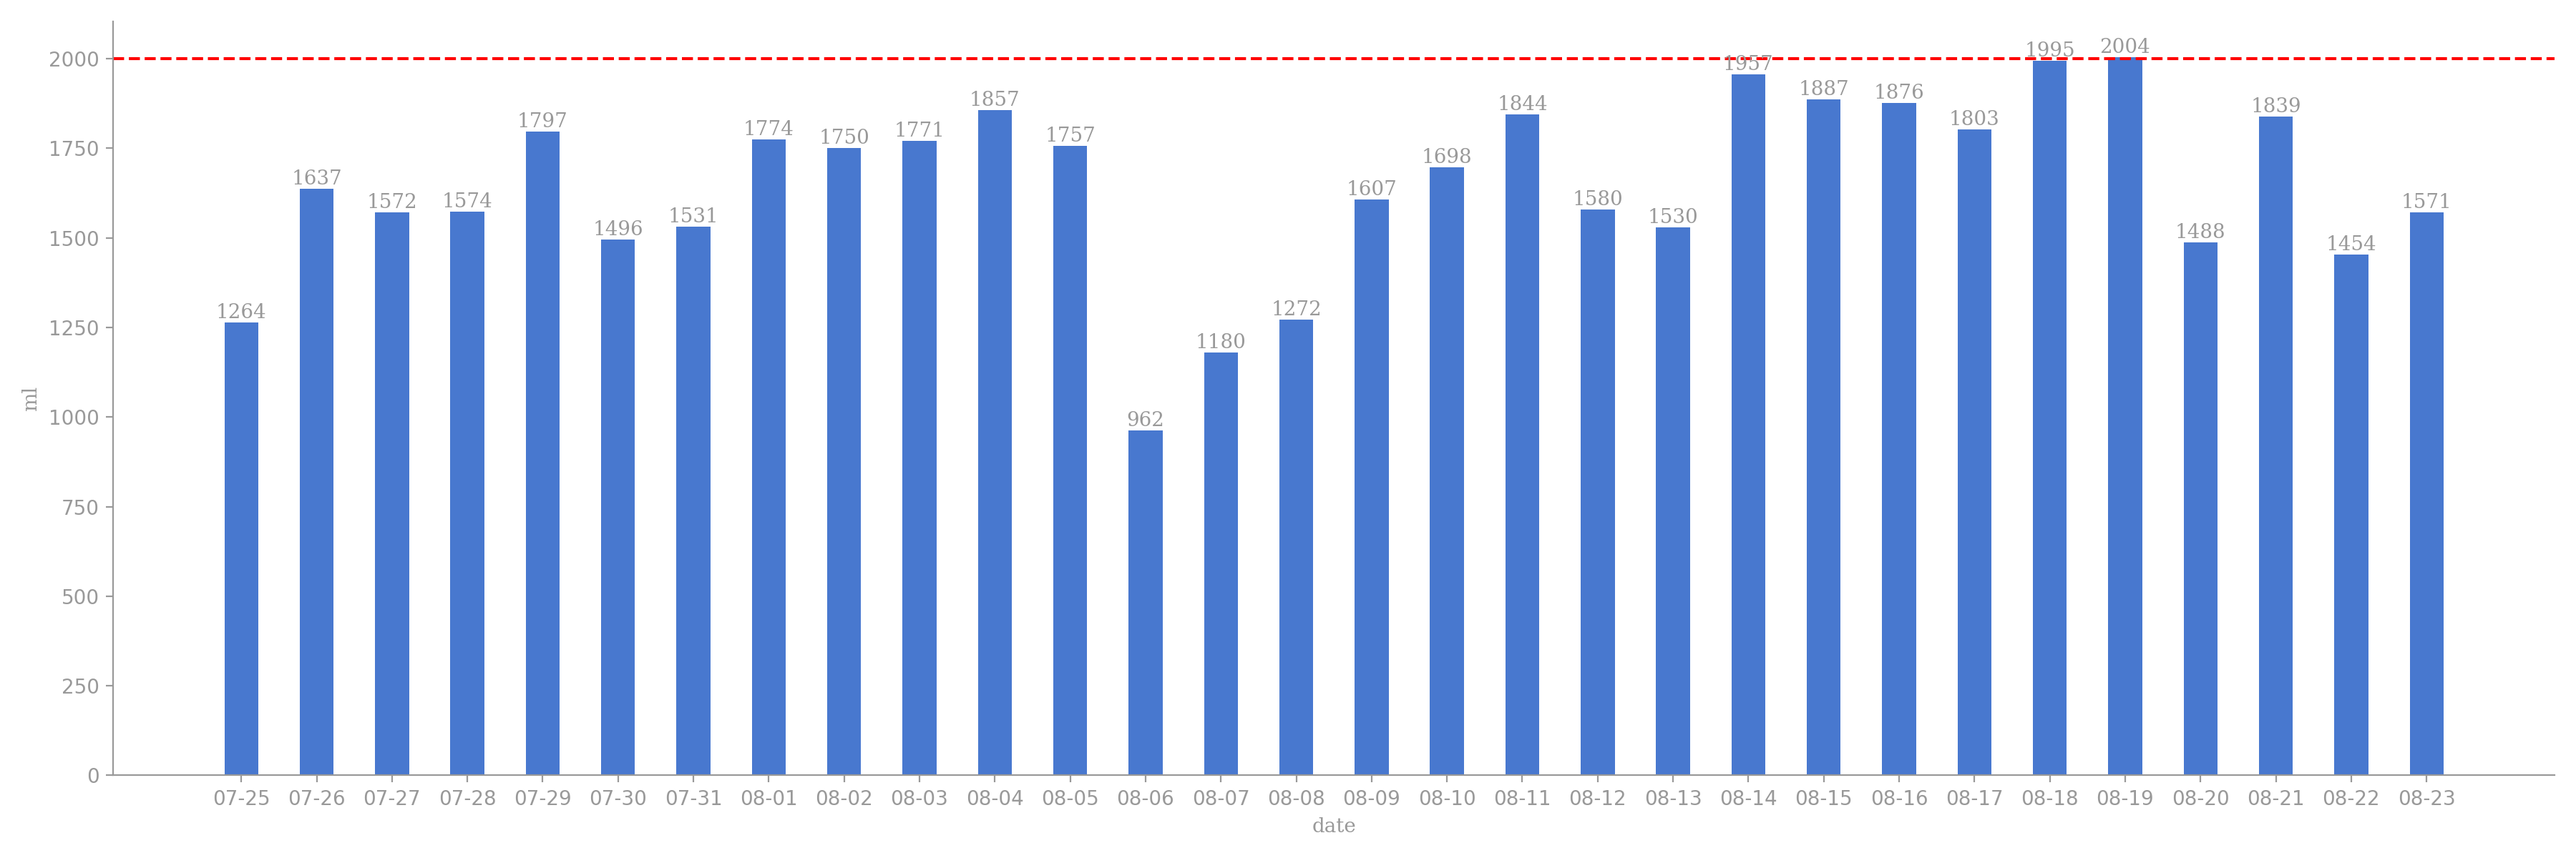
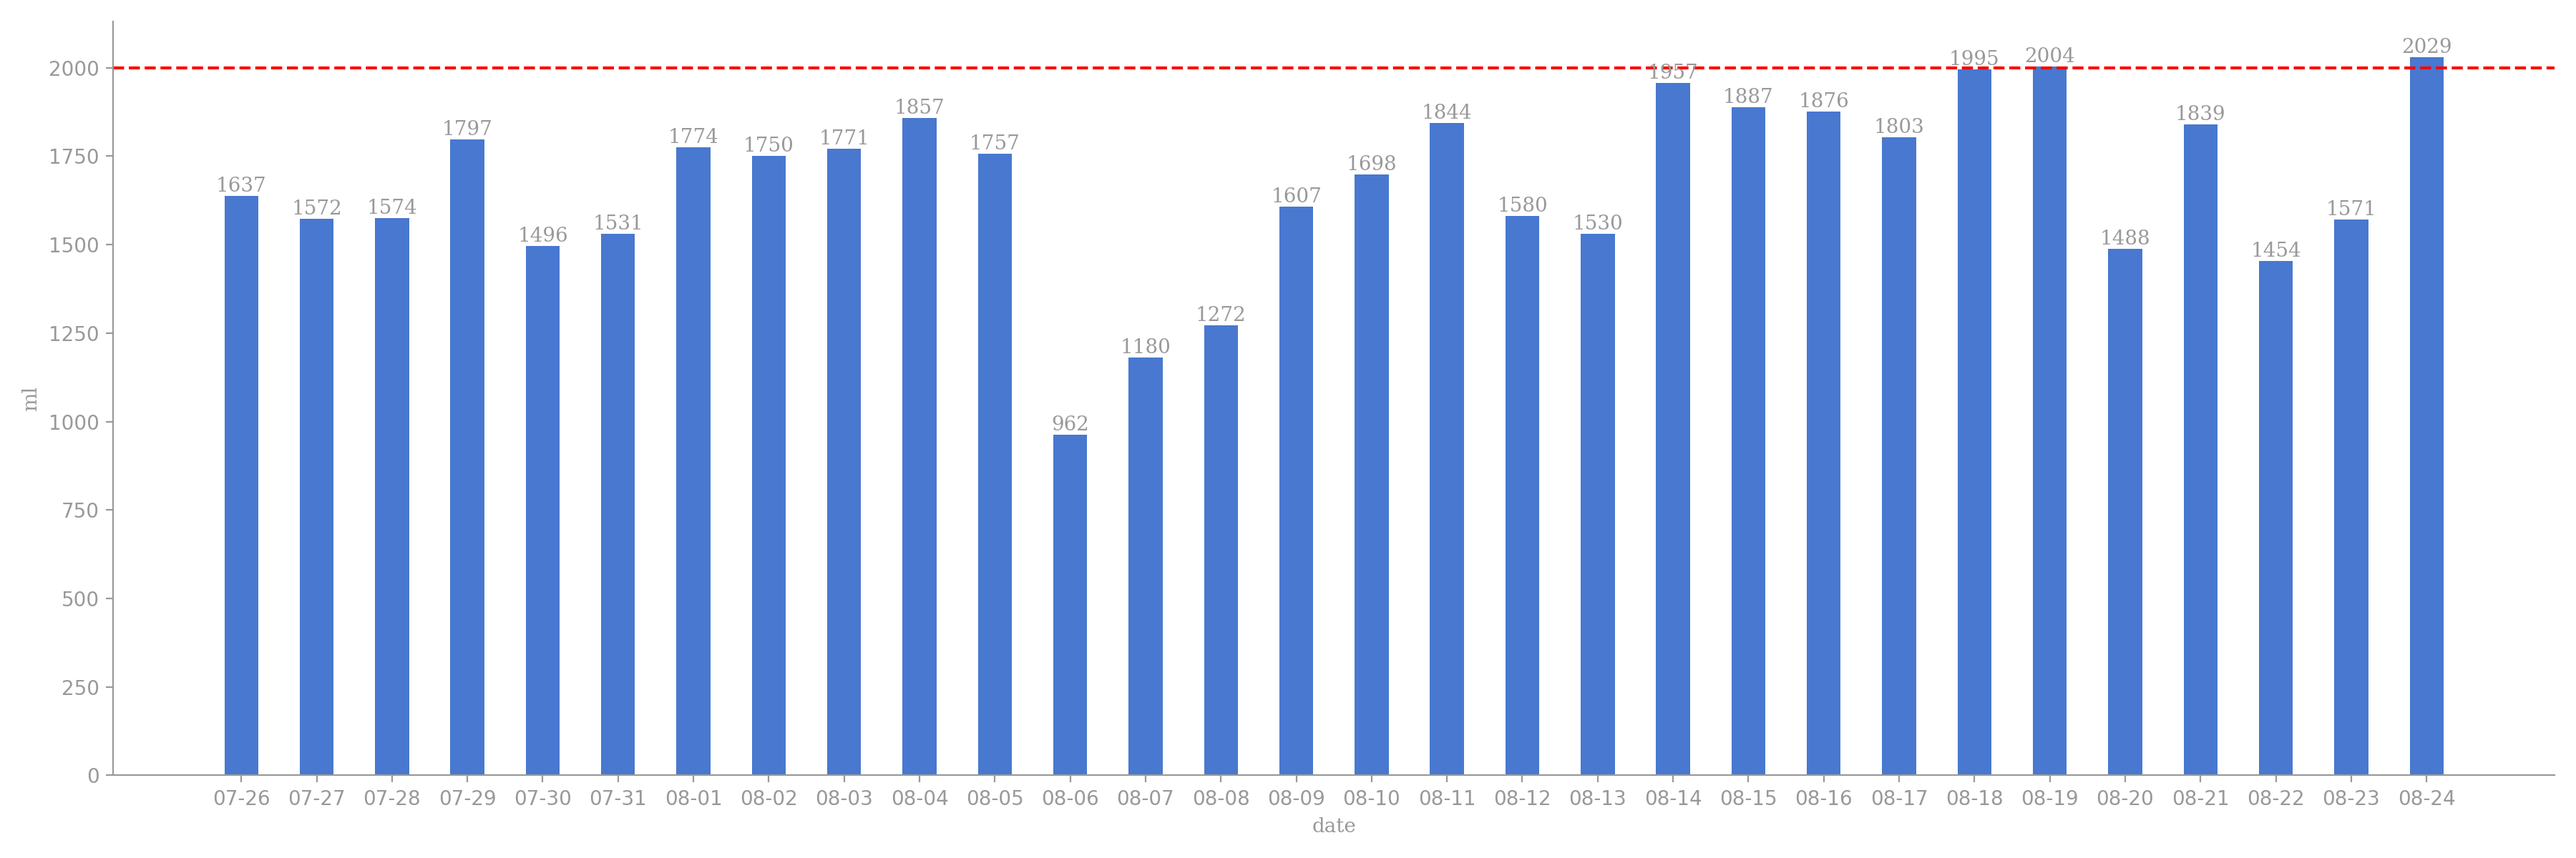
crontab auto git

Changed region(s): [[0.0, 0.0308, 0.9956, 0.5242], [0.0622, 0.1233, 0.3111, 0.37], [0.0, 0.37, 0.0311, 0.4008]]

diff --git a/README.md b/README.md
@@ -1,17 +1,3 @@
-# 今日饮水数据
-
-<div align=center>
-<img src="today.png" style="zoom: 100%;" />
-
-| 今日总饮水量 | 每小时平均饮水量 |
-| :----: | :----: |
-| 2029 | 135 |
-</div>
-
-| 日期 | 00:31:16 | 08:02:51 | 09:11:01 | 10:15:43 | 10:54:05 | 11:23:01 | 11:46:37 | 12:18:15 | 13:04:53 | 14:57:34 | 15:15:16 | 17:35:53 | 18:59:13 | 19:59:37 | 21:55:34 | 22:14:49 | 22:44:35 | 23:16:50 |
-| :----: | :----: | :----: | :----: | :----: | :----: | :----: | :----: | :----: | :----: | :----: | :----: | :----: | :----: | :----: | :----: | :----: | :----: | :----: |
-| 2025-08-24 | 31 | 420 | 64 | 58 | 102 | 87 | 51 | 200 | 99 | 89 | 62 | 114 | 114 | 54 | 300 | 53 | 88 | 43 |
-
 # 近30日饮水数据
 
 <div align=center>
@@ -19,8 +5,12 @@
 
 | 总饮水量 | 日均饮水量 |
 | :----: | :----: |
-| 49327 | 1644 |
+| 50092 | 1669 |
 </div>
+
+| 日期 | all | 00:31:16 | 08:02:51 | 09:11:01 | 10:15:43 | 10:54:05 | 11:23:01 | 11:46:37 | 12:18:15 | 13:04:53 | 14:57:34 | 15:15:16 | 17:35:53 | 18:59:13 | 19:59:37 | 21:55:34 | 22:14:49 | 22:44:35 | 23:16:50 |
+| :----: | :----: | :----: | :----: | :----: | :----: | :----: | :----: | :----: | :----: | :----: | :----: | :----: | :----: | :----: | :----: | :----: | :----: | :----: | :----: |
+| 2025-08-24 | 2029 | 31 | 420 | 64 | 58 | 102 | 87 | 51 | 200 | 99 | 89 | 62 | 114 | 114 | 54 | 300 | 53 | 88 | 43 |
 
 | 日期 | all | 00:13:18 | 07:56:17 | 10:01:52 | 13:03:22 | 13:53:28 | 15:22:49 | 16:12:03 | 20:41:34 | 22:13:48 | 22:30:14 | 23:04:42 | 23:35:33 |
 | :----: | :----: | :----: | :----: | :----: | :----: | :----: | :----: | :----: | :----: | :----: | :----: | :----: | :----: |
@@ -141,8 +131,4 @@
 | 日期 | all | 00:38:14 | 07:54:42 | 08:37:30 | 10:16:04 | 11:30:43 | 12:32:06 | 13:03:51 | 15:13:45 | 17:36:41 | 19:00:48 | 22:07:15 | 22:47:23 |
 | :----: | :----: | :----: | :----: | :----: | :----: | :----: | :----: | :----: | :----: | :----: | :----: | :----: | :----: |
 | 2025-07-25 | 1264 | 83 | 207 | 81 | 134 | 113 | 112 | 53 | 112 | 73 | 102 | 82 | 112 |
-
-| 日期 | all | 00:18:51 | 08:23:23 | 10:17:34 | 11:35:37 | 13:10:32 | 14:49:53 | 16:58:36 | 18:55:45 | 20:56:12 | 21:30:59 | 21:56:00 | 23:02:31 | 23:27:12 |
-| :----: | :----: | :----: | :----: | :----: | :----: | :----: | :----: | :----: | :----: | :----: | :----: | :----: | :----: | :----: |
-| 2025-07-24 | 1431 | 44 | 156 | 116 | 61 | 87 | 218 | 63 | 121 | 300 | 72 | 66 | 55 | 72 |
 
